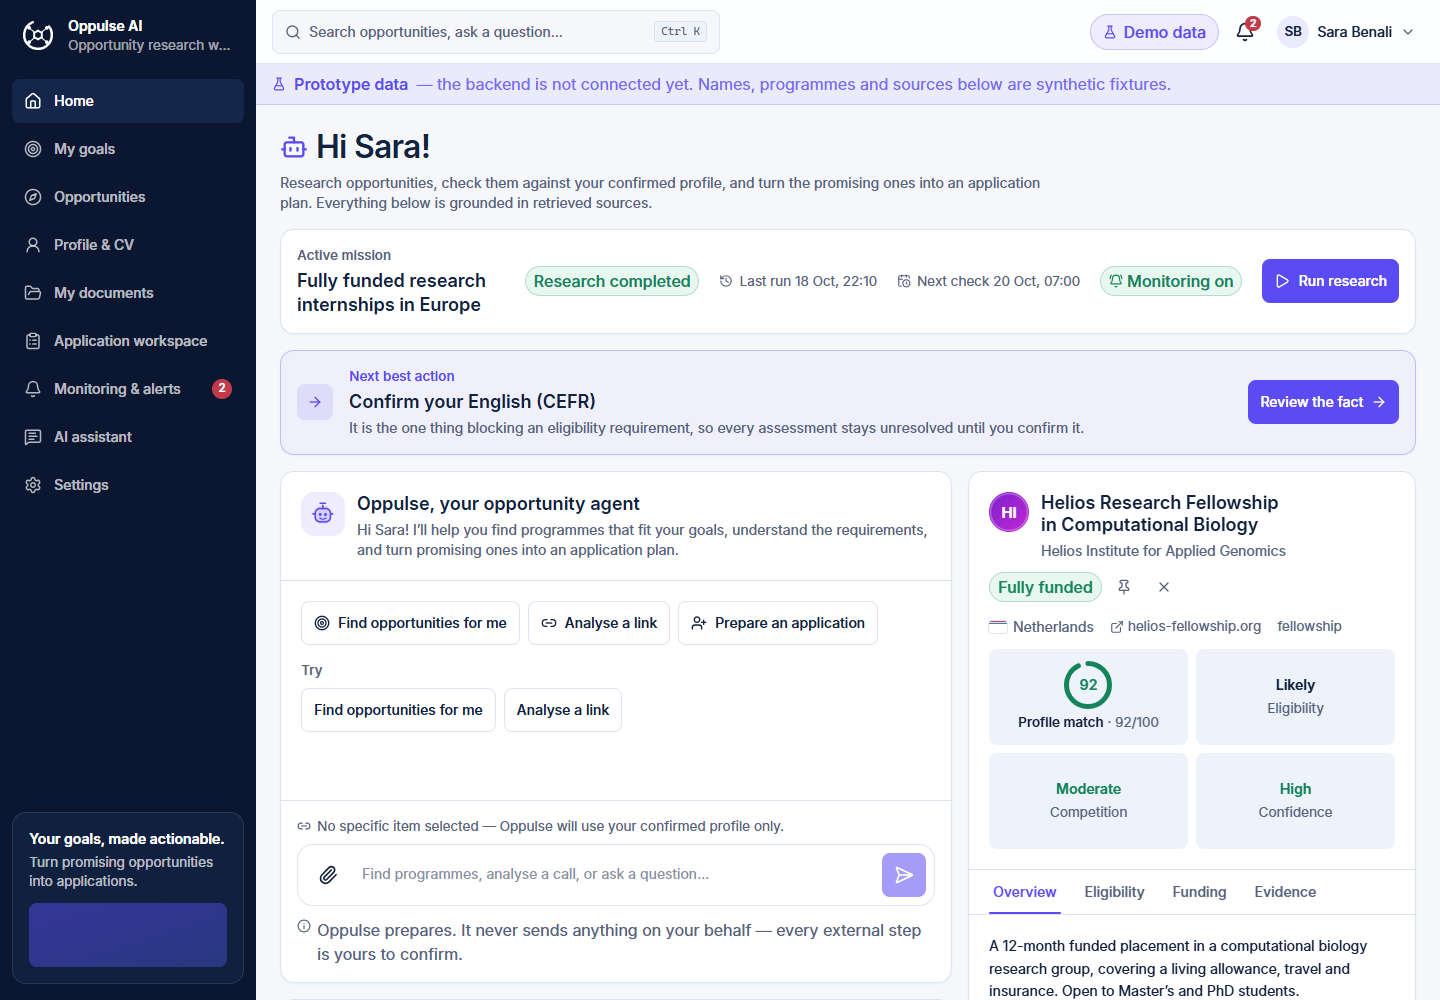
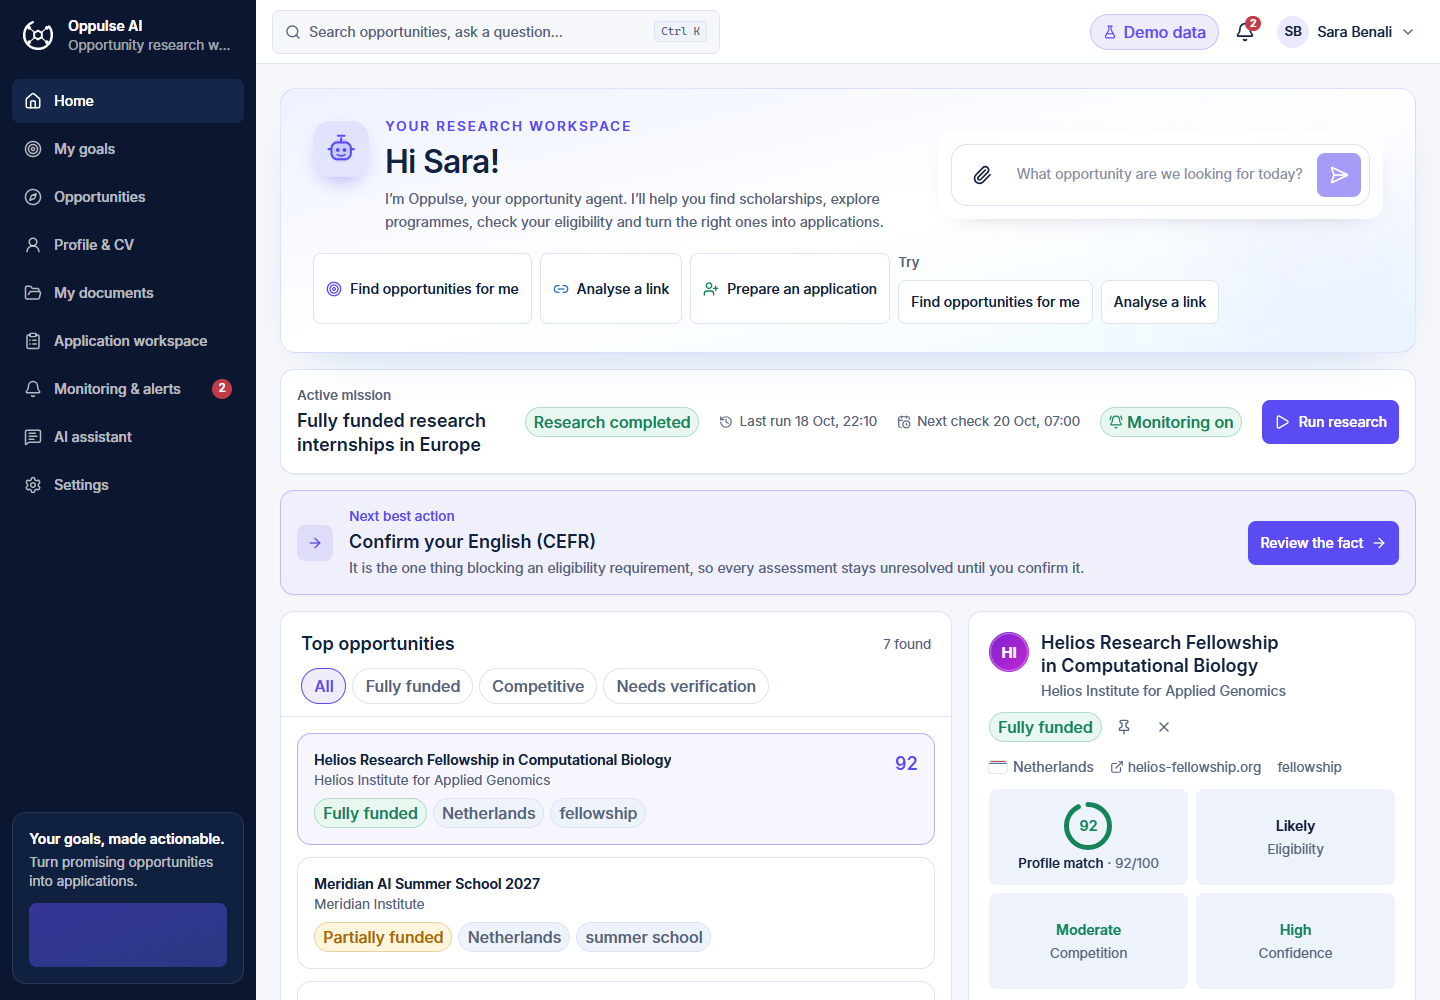
feat: elevate home workspace presentation
Add a branded welcome hero with direct agent actions, remove the duplicate dashboard conversation panel, and keep prototype status out of the authenticated canvas while preserving the demo indicator.

diff --git a/frontend/src/features/home/HomePage.tsx b/frontend/src/features/home/HomePage.tsx
@@ -1,7 +1,6 @@
 import { useState } from 'react';
 import { useSearchParams } from 'react-router-dom';
-import { Bot } from 'lucide-react';
-import { AgentPanel } from './AgentPanel';
+import { Link2, Target, UserPlus } from 'lucide-react';
 import { OpportunityRail } from './OpportunityRail';
 import { OpportunityDetailPanel } from './OpportunityDetailPanel';
 import { ActivityPanel } from './ActivityPanel';
@@ -9,6 +8,12 @@ import { SummaryPanels } from './SummaryPanels';
 import { MissionStrip } from '@/components/actions/mission-strip';
 import { NextBestAction } from '@/components/actions/next-best-action';
 import { Card } from '@/components/ui/card';
+import { Button } from '@/components/ui/button';
+import { OppulseAvatar } from '@/components/agent/oppulse-avatar';
+import { ActionChips } from '@/components/agent/action-chips';
+import { AgentComposer } from '@/components/agent/agent-composer';
+import { AgentConversation } from '@/components/agent/agent-conversation';
+import { useAgent } from '@/lib/agent-context';
 import { useToast } from '@/lib/hooks/use-toast';
 import {
   useCancelRun,
@@ -31,6 +36,7 @@ import {
  * student act, not to display everything the database holds.
  */
 export function HomePage() {
+  const { send, pending, messages } = useAgent();
   const { data: session } = useSession();
   const { data: opportunities } = useOpportunities();
   const { data: missions } = useMissions();
@@ -99,16 +105,71 @@ export function HomePage() {
 
   return (
     <div className="flex flex-col gap-4">
-      <header className="flex flex-col gap-2">
-        <h1 className="flex items-center gap-2 text-page-title font-semibold tracking-tight text-text">
-          <Bot aria-hidden="true" className="size-7 text-primary" />
-          Hi {firstName}!
-        </h1>
-        <p className="max-w-3xl text-sm text-text-muted">
-          Research opportunities, check them against your confirmed profile, and turn the promising
-          ones into an application plan. Everything below is grounded in retrieved sources.
-        </p>
-      </header>
+      <section className="relative overflow-hidden rounded-panel border border-primary/15 bg-gradient-to-br from-[#edf2ff] via-surface to-[#eef9ff] px-5 py-6 shadow-[0_18px_50px_-36px_rgb(47_115_201/0.55)] sm:px-8 sm:py-7">
+        <div className="pointer-events-none absolute -right-10 -bottom-16 size-64 rounded-full bg-primary/5 blur-3xl" />
+        <div className="relative grid gap-6 lg:grid-cols-[minmax(0,1.15fr)_minmax(22rem,0.85fr)] lg:items-center">
+          <div className="flex items-start gap-4">
+            <OppulseAvatar
+              size="lg"
+              className="mt-1 shadow-[0_10px_24px_-12px_rgb(91_75_242/0.7)]"
+            />
+            <div className="flex flex-col gap-2">
+              <p className="text-meta font-semibold tracking-[0.14em] text-primary uppercase">
+                Your research workspace
+              </p>
+              <h1 className="text-page-title font-semibold tracking-tight text-text">
+                Hi {firstName}!
+              </h1>
+              <p className="max-w-xl text-sm leading-relaxed text-text-muted">
+                I’m Oppulse, your opportunity agent. I’ll help you find scholarships, explore
+                programmes, check your eligibility and turn the right ones into applications.
+              </p>
+            </div>
+          </div>
+          <div className="rounded-panel border border-white/80 bg-white/75 p-3 shadow-[0_8px_24px_-20px_rgb(11_23_48/0.5)] backdrop-blur-sm">
+            <AgentComposer
+              onSend={send}
+              pending={pending}
+              placeholder="What opportunity are we looking for today?"
+            />
+          </div>
+        </div>
+        <div className="relative mt-5 flex flex-wrap gap-2">
+          <Button
+            variant="outline"
+            size="sm"
+            disabled={pending}
+            onClick={() => void send('Find fully funded opportunities suited to me.')}
+          >
+            <Target aria-hidden="true" className="size-4 text-primary" />
+            Find opportunities for me
+          </Button>
+          <Button
+            variant="outline"
+            size="sm"
+            disabled={pending}
+            onClick={() => void send('Analyse this opportunity link:')}
+          >
+            <Link2 aria-hidden="true" className="size-4 text-info" />
+            Analyse a link
+          </Button>
+          <Button
+            variant="outline"
+            size="sm"
+            disabled={pending}
+            onClick={() => void send('Help me prepare an application.')}
+          >
+            <UserPlus aria-hidden="true" className="size-4 text-success" />
+            Prepare an application
+          </Button>
+          <ActionChips />
+        </div>
+        {messages.length > 0 ? (
+          <div className="relative mt-5 max-w-3xl rounded-panel border border-white/80 bg-white/70 p-4">
+            <AgentConversation />
+          </div>
+        ) : null}
+      </section>
 
       <MissionStrip
         mission={mission}
@@ -201,7 +262,6 @@ export function HomePage() {
         }
       >
         <div className="flex min-w-0 flex-col gap-4">
-          <AgentPanel />
           <OpportunityRail selectedId={activeId} onSelect={selectOpportunity} />
         </div>
         {isClosed ? (

diff --git a/frontend/src/components/shell/app-shell.tsx b/frontend/src/components/shell/app-shell.tsx
@@ -5,7 +5,7 @@ import { TopBar } from './top-bar';
 import { MobileAskButton, MobileNavDrawer } from './mobile-nav';
 import { CommandPalette } from './command-palette';
 import { CapabilityBanner } from './connection-status';
-import { OfflineBanner, PrototypeBanner } from '@/components/feedback/banners';
+import { OfflineBanner } from '@/components/feedback/banners';
 import { PRODUCT_MODE } from '@/lib/api/config';
 import { useAlerts } from '@/lib/queries';
 
@@ -37,7 +37,7 @@ export function AppShell() {
       <div className="lg:pl-64">
         <TopBar onOpenMenu={() => setDrawerOpen(true)} onOpenCommand={() => setCommandOpen(true)} />
         <OfflineBanner />
-        {PRODUCT_MODE === 'student_testing' ? <CapabilityBanner /> : <PrototypeBanner />}
+        {PRODUCT_MODE === 'student_testing' ? <CapabilityBanner /> : null}
 
         <main id="main-content" className="mx-auto w-full max-w-[1600px] px-4 py-6 sm:px-6">
           <Outlet />
